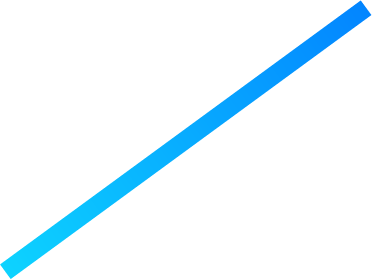
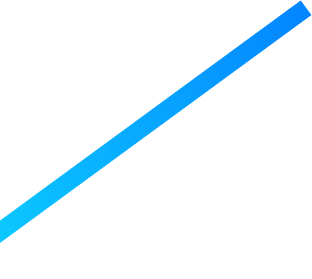
bug fixes

Changed region(s): [[0.0, 0.0, 1.0, 1.0]]

diff --git a/assets/sass/_footer.scss b/assets/sass/_footer.scss
@@ -38,9 +38,9 @@ footer {
 
     &.left {
       height: 140px;
-      left: -30px;
+      left: 0;
       top: -50px;
-      width: 186px;
+      width: 156px;
     }
 
     &.right {
@@ -48,6 +48,14 @@ footer {
       height: 107.5px;
       right: -50px;
       width: 175px;
+    }
+
+    &.right-half {
+      bottom: 0;
+      height: 77.5px;
+      right: -50px;
+      width: 175px;
+      overflow: hidden;
     }
   }
 
@@ -57,7 +65,7 @@ footer {
     max-width: 1200px;
     width: 80%;
 
-    h1, a {
+    h2, a {
       color: $color-white;
       display: inline-block;
     }
@@ -84,9 +92,11 @@ footer {
   .footer-cta {
     overflow: hidden;
 
-    .cta-line.right {
+    .cta-line.right,
+    .cta-line.right-half {
       bottom: 10px;
       right: -100px;
+      height: 107.5px;
     }
 
     .inner {

diff --git a/views/partials/footer-cta.html b/views/partials/footer-cta.html
@@ -2,7 +2,7 @@
   <amp-img class="cta-line left desktop-up"
       noloading
       height=279
-      width=372
+      width=312
       layout=responsive
       src="/static/img/footer/line-left.png">
   </amp-img>
@@ -13,9 +13,18 @@
       layout=responsive
       src="/static/img/footer/line-right.png">
   </amp-img>
+  <div class="cta-line right-half">
+    <amp-img
+        noloading
+        height=215
+        width=350
+        layout=responsive
+        src="/static/img/footer/line-right-2.png">
+    </amp-img>
+  </div>
 
   <div class="inner">
-    <h1>{{_(cta.title)}}</h1>
+    <h2>{{_(cta.title)}}</h2>
     <a href="{{cta.link_url}}">{{_(cta.link_text)}}</a>
   </div>
 </div>

diff --git a/assets/sass/pages/_latest.scss b/assets/sass/pages/_latest.scss
@@ -5,6 +5,7 @@
   }
 
   .hero {
+    box-shadow: 0 3px 10px 0 rgba(0, 0, 0, .15);
     .lines,
     .text {
       left: 0;
@@ -229,7 +230,7 @@
     }
 
     .feeds .text,
-    .twitter .mobile-feed {
+    .feeds .twitter .mobile-feed {
       display: block;
     }
 

diff --git a/assets/sass/_content.scss b/assets/sass/_content.scss
@@ -17,7 +17,7 @@
     word-break: break-word;
 
     /* Adds a hyphen where the word breaks, if supported (No Blink) */
-    hyphens: auto;
+    // hyphens: auto;
   }
 }
 

diff --git a/assets/sass/_mixins.scss b/assets/sass/_mixins.scss
@@ -34,7 +34,7 @@
 }
 
 %break {
-  hyphens: auto;
+  // hyphens: auto;
   overflow-wrap: break-word;
   white-space: normal;
   word-break: break-word;
